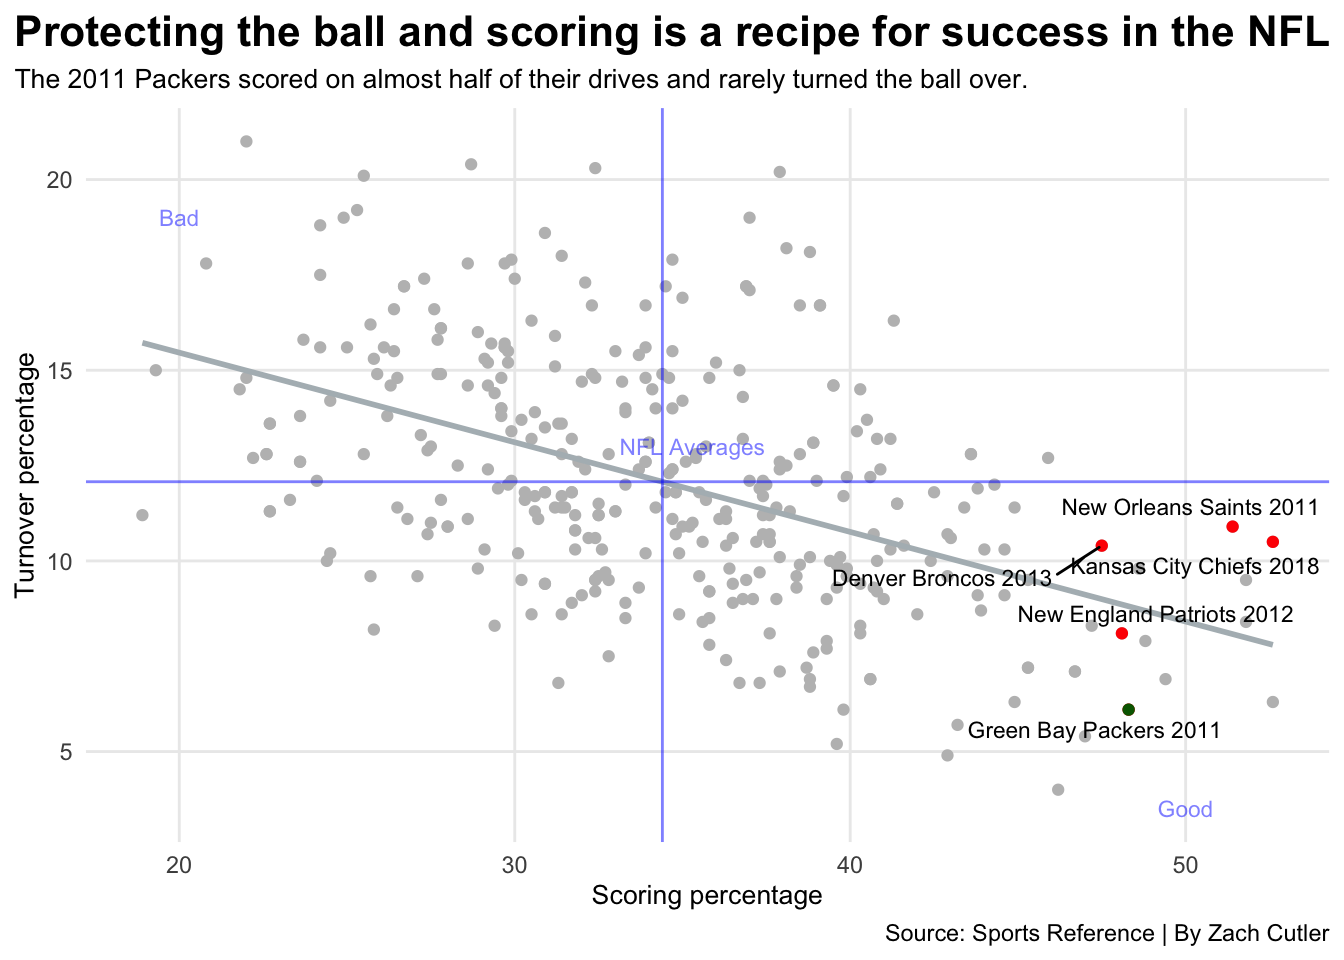
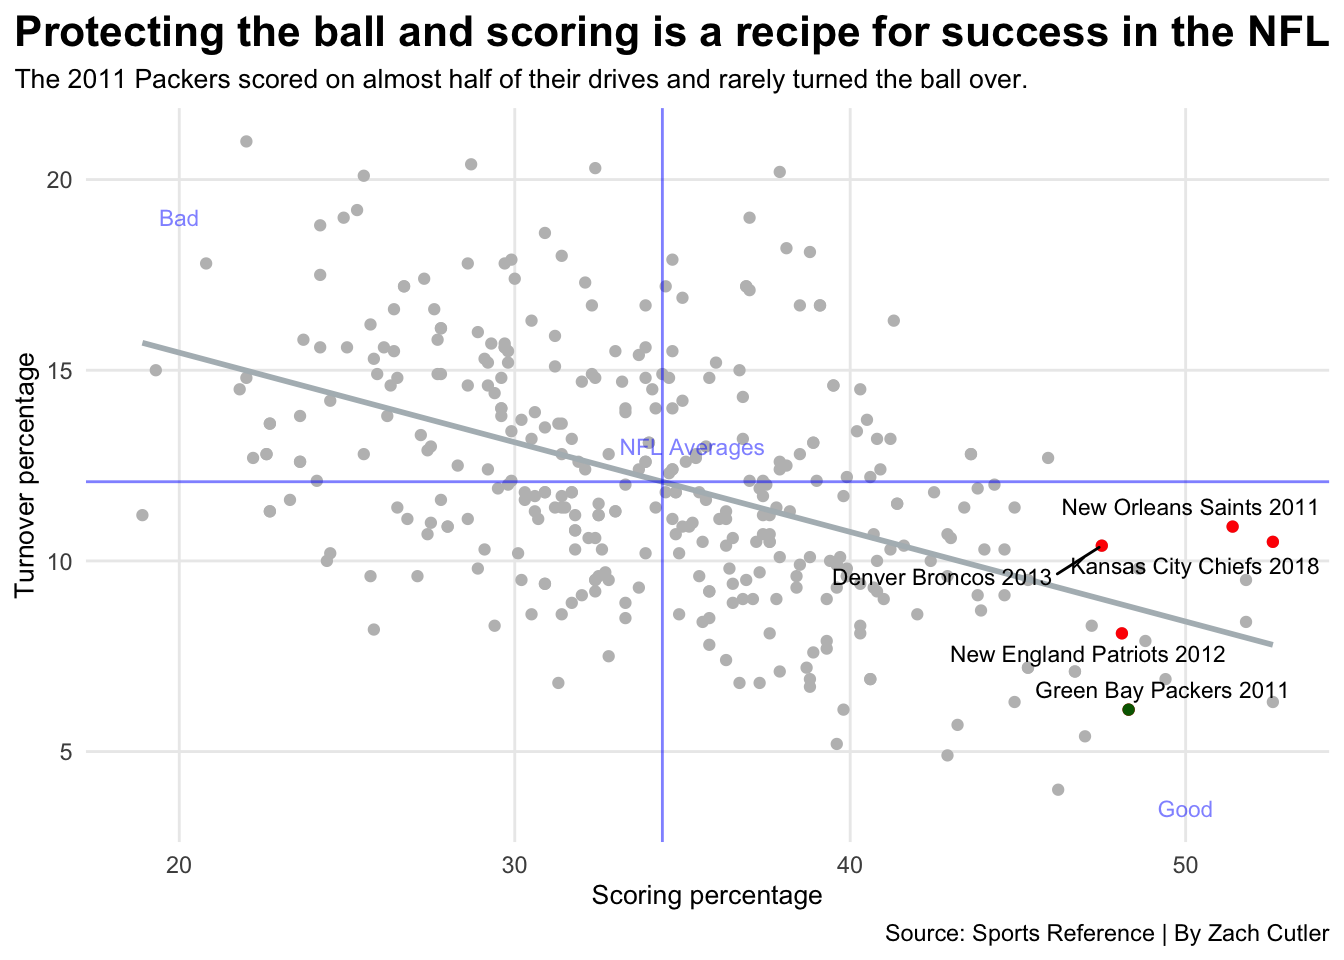
be done
im done

Changed region(s): [[0.625, 0.5938, 0.9688, 0.7812]]

diff --git a/posts/where-did-the-2011-packers-rank-among-the-best-offenses-of-the-2010s/index.html b/posts/where-did-the-2011-packers-rank-among-the-best-offenses-of-the-2010s/index.html
@@ -477,7 +477,7 @@ code span.wa { color: #60a0b0; font-weight: bold; font-style: italic; } /* Warni
 <span id="cb4-7"><a href="#cb4-7" aria-hidden="true" tabindex="-1"></a>  ) <span class="sc">+</span></span>
 <span id="cb4-8"><a href="#cb4-8" aria-hidden="true" tabindex="-1"></a>  <span class="fu">geom_vline</span>(<span class="at">xintercept =</span><span class="fl">1800.56</span>, <span class="at">color=</span><span class="st">"blue"</span>, <span class="at">alpha=</span>.<span class="dv">5</span>) <span class="sc">+</span></span>
 <span id="cb4-9"><a href="#cb4-9" aria-hidden="true" tabindex="-1"></a>  <span class="fu">geom_hline</span>(<span class="at">yintercept =</span> <span class="fl">3744.188</span>  , <span class="at">color=</span><span class="st">"blue"</span>,<span class="at">alpha=</span>.<span class="dv">5</span>) <span class="sc">+</span></span>
-<span id="cb4-10"><a href="#cb4-10" aria-hidden="true" tabindex="-1"></a>  <span class="fu">geom_text</span>(<span class="fu">aes</span>(<span class="at">x=</span><span class="dv">1850</span>, <span class="at">y=</span><span class="dv">3680</span>), <span class="at">label=</span><span class="st">"NFL Averages"</span>, <span class="at">color=</span><span class="st">"blue"</span>, <span class="at">alpha=</span>.<span class="dv">5</span>, <span class="at">size=</span><span class="dv">3</span>)<span class="sc">+</span></span>
+<span id="cb4-10"><a href="#cb4-10" aria-hidden="true" tabindex="-1"></a>  <span class="fu">geom_text</span>(<span class="fu">aes</span>(<span class="at">x=</span><span class="dv">1950</span>, <span class="at">y=</span><span class="dv">3680</span>), <span class="at">label=</span><span class="st">"NFL Averages"</span>, <span class="at">color=</span><span class="st">"blue"</span>, <span class="at">alpha=</span>.<span class="dv">5</span>, <span class="at">size=</span><span class="dv">3</span>)<span class="sc">+</span></span>
 <span id="cb4-11"><a href="#cb4-11" aria-hidden="true" tabindex="-1"></a><span class="fu">theme_minimal</span>() <span class="sc">+</span></span>
 <span id="cb4-12"><a href="#cb4-12" aria-hidden="true" tabindex="-1"></a>   <span class="fu">theme</span>(</span>
 <span id="cb4-13"><a href="#cb4-13" aria-hidden="true" tabindex="-1"></a>    <span class="at">plot.title =</span> <span class="fu">element_text</span>(<span class="at">size =</span> <span class="dv">16</span>, <span class="at">face =</span> <span class="st">"bold"</span>),</span>

diff --git a/index.html b/index.html
@@ -164,7 +164,7 @@ ul.task-list li input[type="checkbox"] {
 
 <div class="quarto-listing quarto-listing-container-default" id="listing-listing">
 <div class="list quarto-listing-default">
-<div class="quarto-post image-right" data-index="0" data-categories="football,nfl,analysis" data-listing-date-sort="1669788000000" data-listing-file-modified-sort="1670020008707" data-listing-reading-time-sort="11.37">
+<div class="quarto-post image-right" data-index="0" data-categories="football,nfl,analysis" data-listing-date-sort="1669788000000" data-listing-file-modified-sort="1670020186011" data-listing-reading-time-sort="11.37">
 <div class="thumbnail">
 <p><a href="./posts/where-did-the-2011-packers-rank-among-the-best-offenses-of-the-2010s/index.html"> <img src="./posts/where-did-the-2011-packers-rank-among-the-best-offenses-of-the-2010s/image1.png" class="thumnail-image"> </a></p>
 </div>
